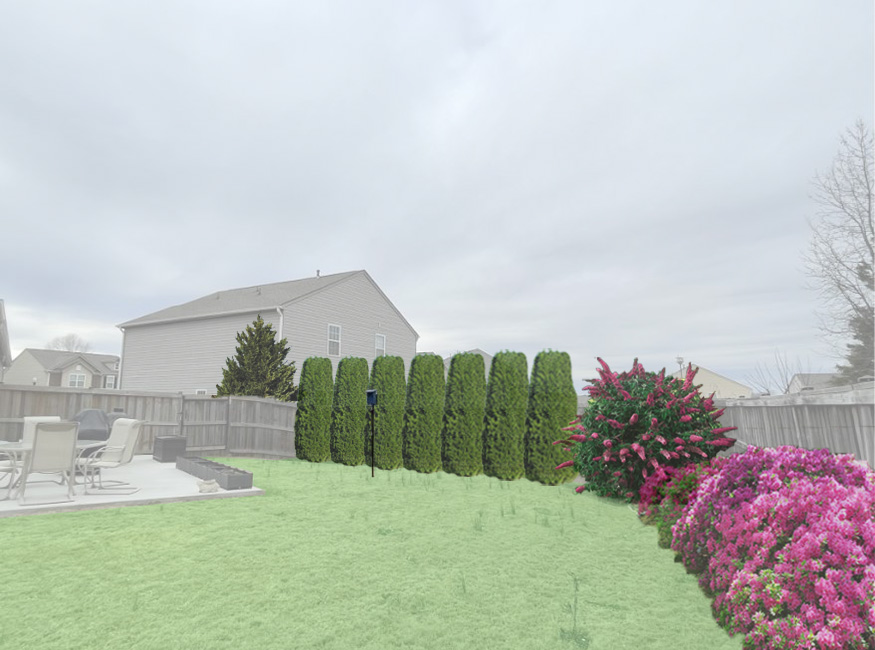
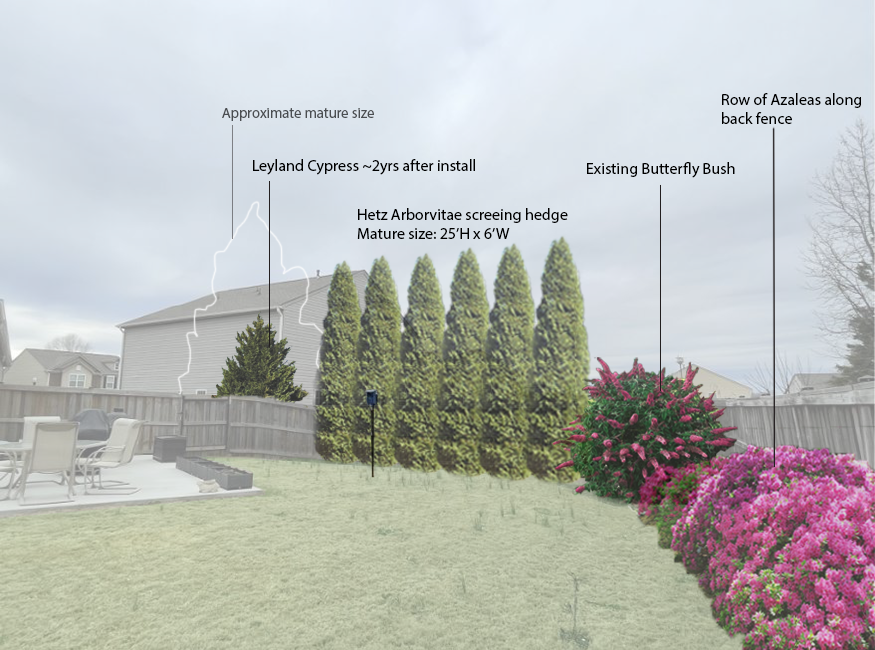
removed ul text, renderings with labels, back yard se perspective, plan update

diff --git a/index.html b/index.html
@@ -24,51 +24,13 @@
     <p class="lead">01/19/2023: First draft of a visualized planting plan based on several conversations</p>
 
     <hr class="mt-1">
-    <h4>The Plan</h4>
-    <p>
-        Existing and proposed conditions.
-    </p>
-    <div id="carouselExampleCaptions6" class="carousel slide carousel-fade" data-bs-ride="carousel">
-        <div class="carousel-indicators">
-          <button type="button" data-bs-target="#carouselExampleCaptions6" data-bs-slide-to="0" class="active" aria-current="true" aria-label="Slide 1"></button>
-          <button type="button" data-bs-target="#carouselExampleCaptions6" data-bs-slide-to="1" aria-label="Slide 2"></button>
-        </div>
-        <div class="carousel-inner">
-          <div class="carousel-item active">
-            <img src="assets/images/plan_bing_2.png" class="d-block w-100" alt="existing planting">
-            <div class="carousel-caption d-none d-md-block">
-              <h5>Existing</h5>
-              <!-- <p>Some representative placeholder content for the first slide.</p> -->
-            </div>
-          </div>
-          <div class="carousel-item">
-            <img src="assets/images/plan_bing_2_proposed.png" class="d-block w-100" alt="proposed planting">
-            <div class="carousel-caption d-none d-md-block">
-              <h5>Proposed</h5>
-              <!-- <p>Some representative placeholder content for the second slide.</p> -->
-            </div>
-          </div>
-        </div>
-        <button class="carousel-control-prev" type="button" data-bs-target="#carouselExampleCaptions6" data-bs-slide="prev">
-          <span class="carousel-control-prev-icon" aria-hidden="true"></span>
-          <span class="visually-hidden">Previous</span>
-        </button>
-        <button class="carousel-control-next" type="button" data-bs-target="#carouselExampleCaptions6" data-bs-slide="next">
-          <span class="carousel-control-next-icon" aria-hidden="true"></span>
-          <span class="visually-hidden">Next</span>
-        </button>
-      </div>
+ 
 
-    <hr>
     <h4>Front of House</h4>
     <p>
-        From Left to right:
+        Intent: work with existing shrubs, add colorful interest.
     </p>
-    <ul>
-        <li>Existing Smoke Bush (when mature)</li>
-        <li>Proposed low Azalea hedge</li>
-        <li>Existing small evergreen shrub (when mature)</li>
-    </ul>
+
     <div id="carouselExampleCaptions" class="carousel slide carousel-fade" data-bs-ride="carousel">
         <div class="carousel-indicators">
           <button type="button" data-bs-target="#carouselExampleCaptions" data-bs-slide-to="0" class="active" aria-current="true" aria-label="Slide 1"></button>
@@ -82,7 +44,7 @@
               <!-- <p>Some representative placeholder content for the first slide.</p> -->
             </div>
           </div>
-          <div class="carousel-item">
+          <div class="carousel-item" data-bs-interval="10000">
             <img src="assets/images/front_1_proposed.png" class="d-block w-100" alt="...">
             <div class="carousel-caption d-none d-md-block">
               <h5>Proposed</h5>
@@ -101,14 +63,11 @@
       </div>
 
     <hr>
-    <h4>Side of House: South</h4>
+    <h4>South Side Yard</h4>
     <p>
-        From Left to right:
+        Intent: add durable vegetation that will support pollinator wildlife.
     </p>
-    <ul>
-        <li>Existing small evergreen shrub (when mature)</li>
-        <li>Single row of Stone-Crop Cedum (at fall bloom)</li>
-    </ul>
+
     <div id="carouselExampleCaptions2" class="carousel slide carousel-fade" data-bs-ride="carousel">
         <div class="carousel-indicators">
           <button type="button" data-bs-target="#carouselExampleCaptions2" data-bs-slide-to="0" class="active" aria-current="true" aria-label="Slide 1"></button>
@@ -122,10 +81,10 @@
               <!-- <p>Some representative placeholder content for the first slide.</p> -->
             </div>
           </div>
-          <div class="carousel-item">
+          <div class="carousel-item" data-bs-interval="10000">
             <img src="assets/images/side_south_proposed.png" class="d-block w-100" alt="...">
             <div class="carousel-caption d-none d-md-block">
-              <h5>Proposed</h5>
+              <h5 class="black">Proposed</h5>
               <!-- <p>Some representative placeholder content for the second slide.</p> -->
             </div>
           </div>
@@ -141,15 +100,10 @@
       </div>
     <hr>
 
-    <h4>Back of House: Looking North</h4>
+    <h4>Back Yard, looking North</h4>
     <p>
-        From Left to right:
+        Intent: provide visual screening from neighbor's property and color interest along the back fence.
     </p>
-    <ul>
-        <li>Leland Bald Cypress for screening on front side of fence</li>
-        <li>row of Emerald Green Arborvitea for screening on inside of fence row</li>
-        <li>existing Butterfly bush, Azalea Hedge (1 of 2)</li>
-    </ul>
     <div id="carouselExampleCaptions4" class="carousel slide carousel-fade" data-bs-ride="carousel">
         <div class="carousel-indicators">
           <button type="button" data-bs-target="#carouselExampleCaptions4" data-bs-slide-to="0" class="active" aria-current="true" aria-label="Slide 1"></button>
@@ -163,7 +117,7 @@
               <!-- <p>Some representative placeholder content for the first slide.</p> -->
             </div>
           </div>
-          <div class="carousel-item">
+          <div class="carousel-item" data-bs-interval="10000">
             <img src="assets/images/back_north_2_proposed.png" class="d-block w-100" alt="...">
             <div class="carousel-caption d-none d-md-block">
               <h5>Proposed</h5>
@@ -182,44 +136,112 @@
       </div>
       <hr>
 
-    <h4>Side of House: North, screening at neighbor's fence</h4>
+      <h4>North Side Yard, looking North</h4>
+      <p>
+          Intent: provide visual screening from neighbor's property 
+      </p>
+      <div id="carouselExampleCaptions5" class="carousel slide carousel-fade" data-bs-ride="carousel">
+          <div class="carousel-indicators">
+            <button type="button" data-bs-target="#carouselExampleCaptions5" data-bs-slide-to="0" class="active" aria-current="true" aria-label="Slide 1"></button>
+            <button type="button" data-bs-target="#carouselExampleCaptions5" data-bs-slide-to="1" aria-label="Slide 2"></button>
+          </div>
+          <div class="carousel-inner">
+            <div class="carousel-item active">
+              <img src="assets/images/back_north_3.png" class="d-block w-100" alt="existing view into neighbors at north">
+              <div class="carousel-caption d-none d-md-block">
+                <h5>Existing</h5>
+                <!-- <p>Some representative placeholder content for the first slide.</p> -->
+              </div>
+            </div>
+            <div class="carousel-item" data-bs-interval="10000">
+              <img src="assets/images/back_north_3_proposed.png" class="d-block w-100" alt="...">
+              <div class="carousel-caption d-none d-md-block">
+                <h5>Proposed</h5>
+                <!-- <p>Some representative placeholder content for the second slide.</p> -->
+              </div>
+            </div>
+          </div>
+          <button class="carousel-control-prev" type="button" data-bs-target="#carouselExampleCaptions5" data-bs-slide="prev">
+            <span class="carousel-control-prev-icon" aria-hidden="true"></span>
+            <span class="visually-hidden">Previous</span>
+          </button>
+          <button class="carousel-control-next" type="button" data-bs-target="#carouselExampleCaptions5" data-bs-slide="next">
+            <span class="carousel-control-next-icon" aria-hidden="true"></span>
+            <span class="visually-hidden">Next</span>
+          </button>
+        </div>
+        <hr>
+
+    <h4>Back Yard, looking South-East</h4>
     <p>
-        From Left to right:
+        Intent: provide color interest along back fence line. 
     </p>
-    <ul>
-        <li>Leland Bald Cypress for screening on front side of fence</li>
-        <li>row of Emerald Green Arborvitea for screening on inside of fence row</li>
-    </ul>
-    <div id="carouselExampleCaptions5" class="carousel slide carousel-fade" data-bs-ride="carousel">
+    <div id="carouselExampleCaptions7" class="carousel slide carousel-fade" data-bs-ride="carousel">
         <div class="carousel-indicators">
-          <button type="button" data-bs-target="#carouselExampleCaptions5" data-bs-slide-to="0" class="active" aria-current="true" aria-label="Slide 1"></button>
-          <button type="button" data-bs-target="#carouselExampleCaptions5" data-bs-slide-to="1" aria-label="Slide 2"></button>
+          <button type="button" data-bs-target="#carouselExampleCaptions7" data-bs-slide-to="0" class="active" aria-current="true" aria-label="Slide 1"></button>
+          <button type="button" data-bs-target="#carouselExampleCaptions7" data-bs-slide-to="1" aria-label="Slide 2"></button>
         </div>
         <div class="carousel-inner">
           <div class="carousel-item active">
-            <img src="assets/images/back_north_3.png" class="d-block w-100" alt="existing view into neighbors at north">
+            <img src="assets/images/back_south_1.png" class="d-block w-100" alt="existing view into neighbors at north">
             <div class="carousel-caption d-none d-md-block">
               <h5>Existing</h5>
               <!-- <p>Some representative placeholder content for the first slide.</p> -->
             </div>
           </div>
-          <div class="carousel-item">
-            <img src="assets/images/back_north_3_proposed.png" class="d-block w-100" alt="...">
+          <div class="carousel-item" data-bs-interval="10000">
+            <img src="assets/images/back_south_1_proposed.png" class="d-block w-100" alt="...">
             <div class="carousel-caption d-none d-md-block">
               <h5>Proposed</h5>
               <!-- <p>Some representative placeholder content for the second slide.</p> -->
             </div>
           </div>
         </div>
-        <button class="carousel-control-prev" type="button" data-bs-target="#carouselExampleCaptions5" data-bs-slide="prev">
+        <button class="carousel-control-prev" type="button" data-bs-target="#carouselExampleCaptions7" data-bs-slide="prev">
           <span class="carousel-control-prev-icon" aria-hidden="true"></span>
           <span class="visually-hidden">Previous</span>
         </button>
-        <button class="carousel-control-next" type="button" data-bs-target="#carouselExampleCaptions5" data-bs-slide="next">
+        <button class="carousel-control-next" type="button" data-bs-target="#carouselExampleCaptions7" data-bs-slide="next">
           <span class="carousel-control-next-icon" aria-hidden="true"></span>
           <span class="visually-hidden">Next</span>
         </button>
       </div>
+      <hr>
+
+      <h4>The Plan</h4>
+      <p>
+          The visualizations summarized in plan.
+      </p>
+      <div id="carouselExampleCaptions6" class="carousel slide carousel-fade" data-bs-ride="carousel">
+          <div class="carousel-indicators">
+            <button type="button" data-bs-target="#carouselExampleCaptions6" data-bs-slide-to="0" class="active" aria-current="true" aria-label="Slide 1"></button>
+            <button type="button" data-bs-target="#carouselExampleCaptions6" data-bs-slide-to="1" aria-label="Slide 2"></button>
+          </div>
+          <div class="carousel-inner">
+            <div class="carousel-item active" data-bs-interval="10000">
+              <img src="assets/images/plan_bing_2.png" class="d-block w-100" alt="existing planting">
+              <div class="carousel-caption d-none d-md-block">
+                <h5>Existing</h5>
+                <!-- <p>Some representative placeholder content for the first slide.</p> -->
+              </div>
+            </div>
+            <div class="carousel-item" data-bs-interval="10000">
+              <img src="assets/images/plan_bing_2_proposed.png" class="d-block w-100" alt="proposed planting">
+              <div class="carousel-caption d-none d-md-block">
+                <h5>Proposed</h5>
+                <!-- <p>Some representative placeholder content for the second slide.</p> -->
+              </div>
+            </div>
+          </div>
+          <button class="carousel-control-prev" type="button" data-bs-target="#carouselExampleCaptions6" data-bs-slide="prev">
+            <span class="carousel-control-prev-icon" aria-hidden="true"></span>
+            <span class="visually-hidden">Previous</span>
+          </button>
+          <button class="carousel-control-next" type="button" data-bs-target="#carouselExampleCaptions6" data-bs-slide="next">
+            <span class="carousel-control-next-icon" aria-hidden="true"></span>
+            <span class="visually-hidden">Next</span>
+          </button>
+        </div>
       <hr>
 
       <h2>Cost Estimate</h2>

diff --git a/assets/css/style.css b/assets/css/style.css
@@ -3,19 +3,21 @@
 h1{
     margin-top: 3%;
 }
+hr{
+    margin-top: 40px;
+    margin-bottom: 20px;
+}
 
 .banner{
     height: 200px;
     width: auto;
 }
-
 .container{
     /* padding-left: 12%;
     padding-right: 12%; */
     padding-bottom:50px;
 }
 
-hr{
-    margin-top: 40px;
-    margin-bottom: 20px;
+.black{
+    color: black;
 }
